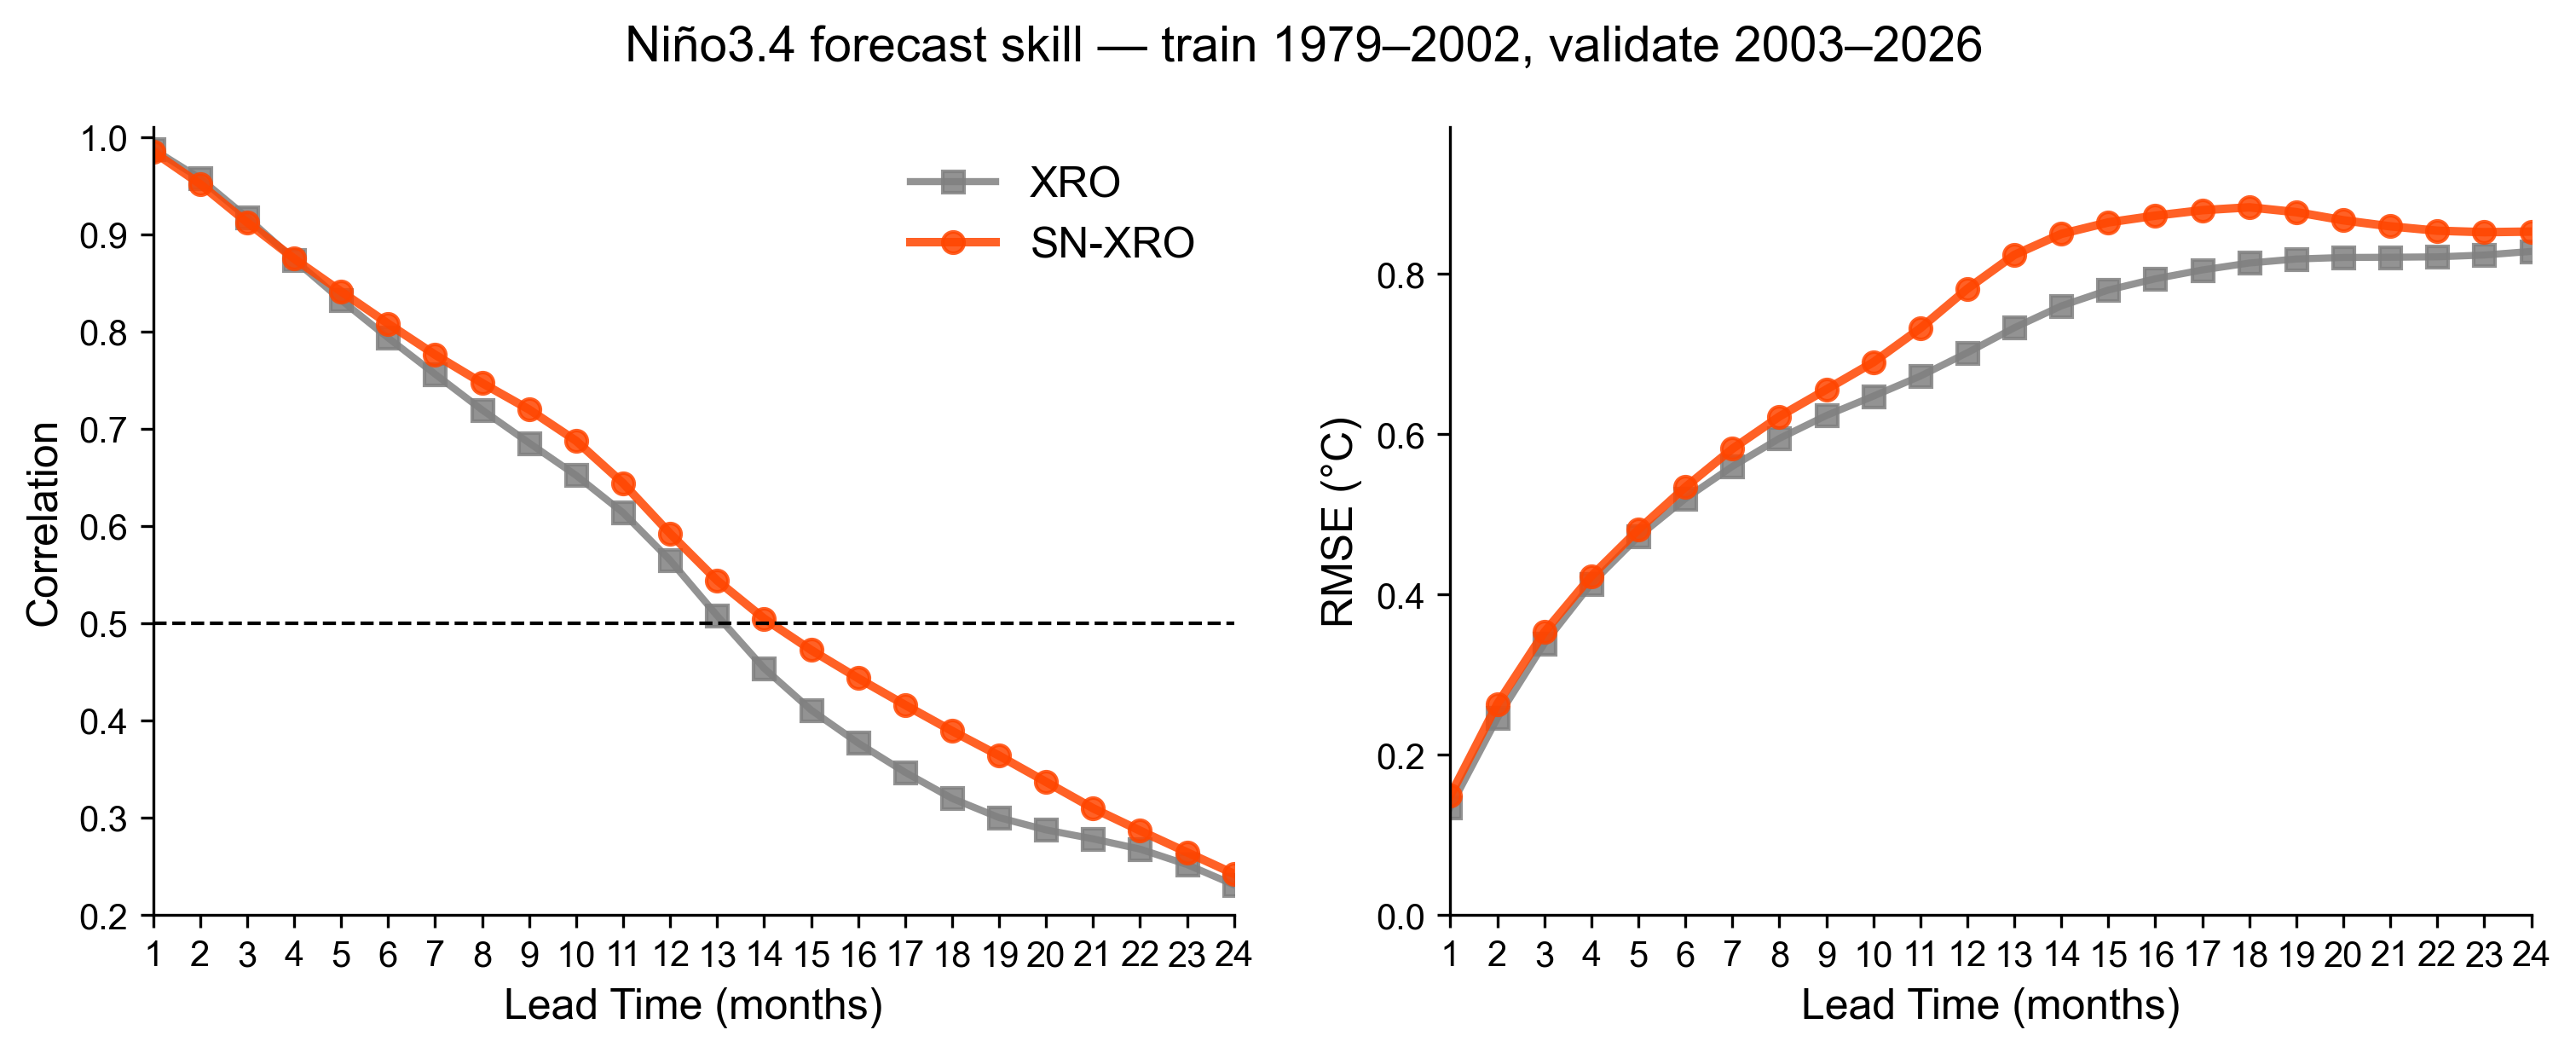
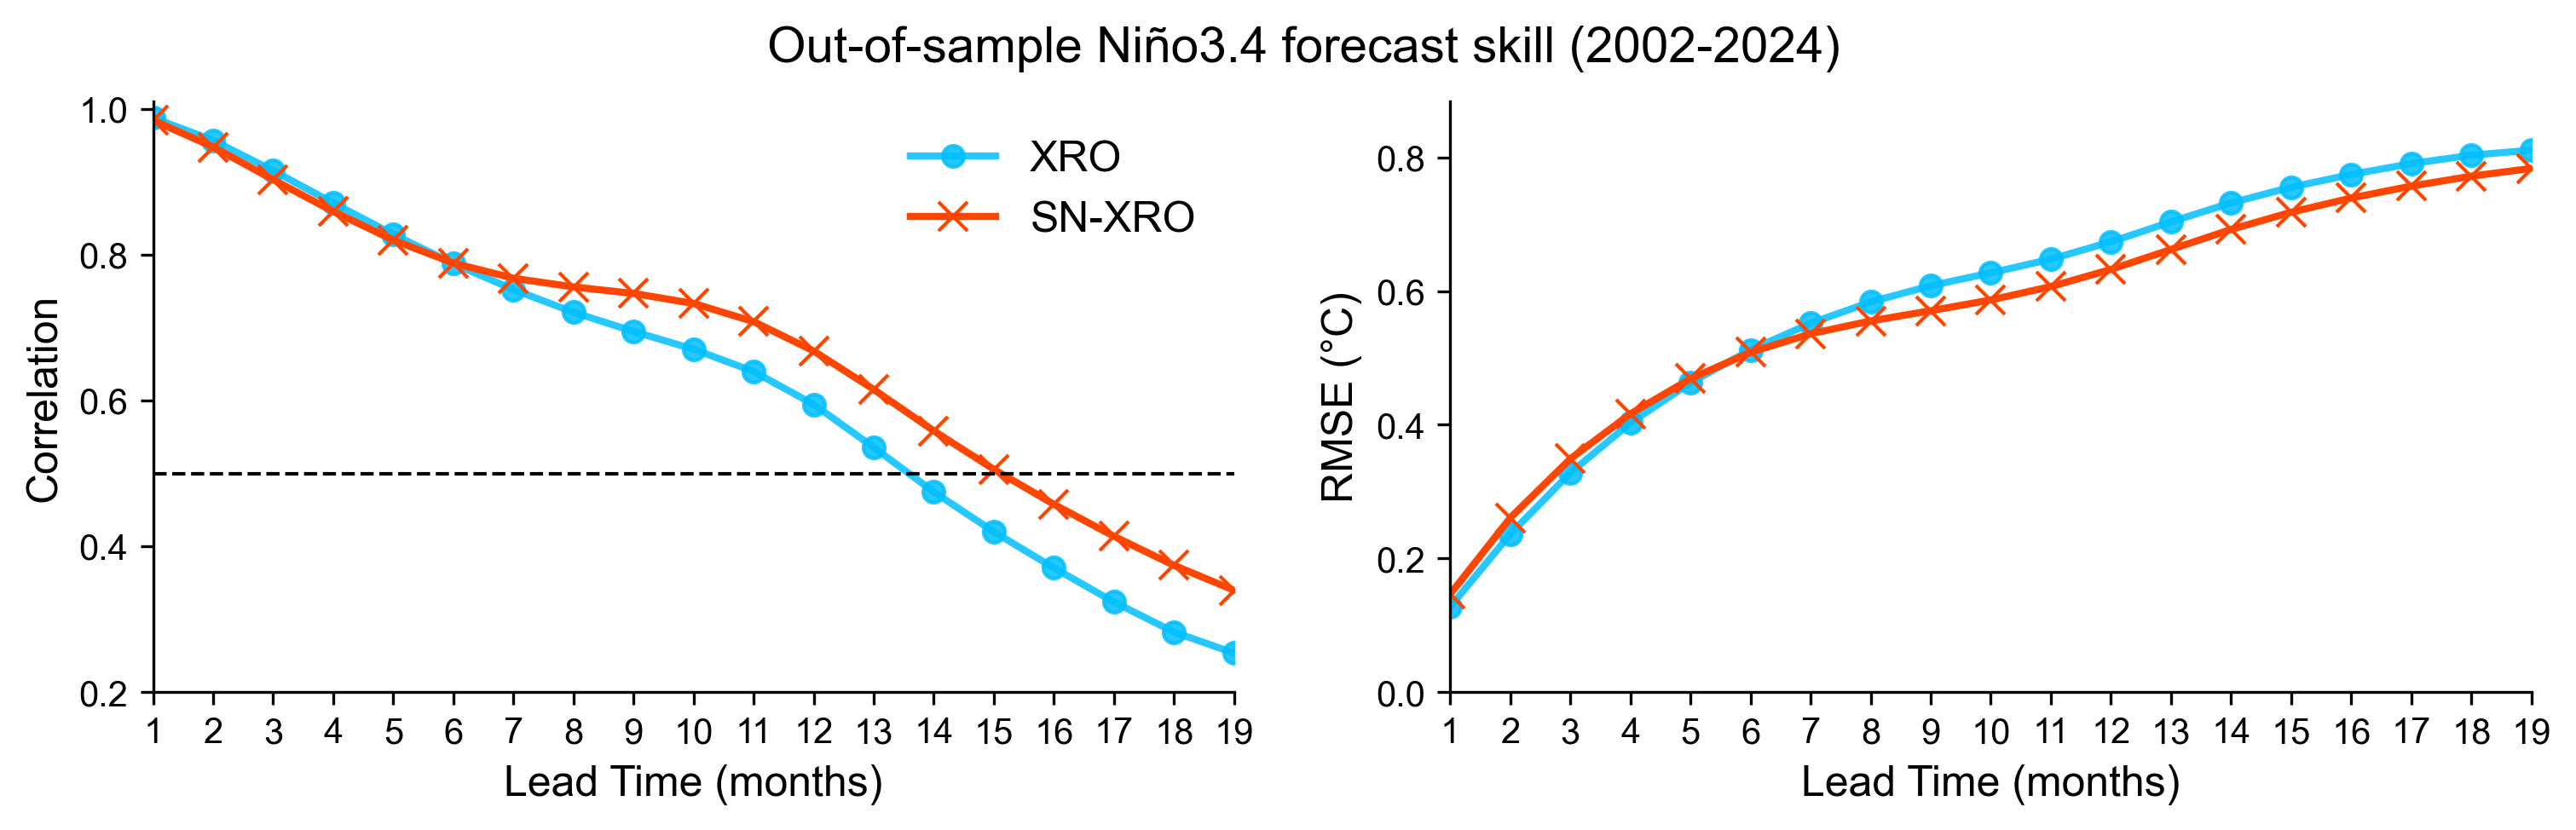
eval: align with xro_pysindy.ipynb; opaque errorbars; tilted peak label
- build_xro_model is now the standard nonlinear XRO baseline (model_std):
  physically prescribed quadratic/cubic-self terms on Nino34/WWV, matching
  the reference notebook (was a pure-linear model)
- evaluate.py: same data (XRO_indices_oras5.nc), split (train 1979-2001 =
  12x23 months, validate 2002-2024), leads 0-19, is_mv3=True, notebook styles;
  real-time forecast uses the latest dataset (oras5_indices_1958-2026-05.nc)
- plot_realtime_forecast: RMSE errorbars now opaque; extreme-value label arrow
  tilted horizontally so it no longer overlaps the (vertical) errorbar
- README: refine skill claim (SN-XRO leads from ~6 mo, +0.09 corr & lower RMSE
  at lead 19), correct XRO baseline description, update evaluation section

diff --git a/evaluate.py b/evaluate.py
@@ -1,17 +1,22 @@
 """
-evaluate.py —— SN-XRO 最小评估程序（训练 1979–2002，验证 2003–至今）。
+evaluate.py —— SN-XRO 最小评估程序，设置与参考笔记本 `xro_pysindy.ipynb` 一致。
+
+数据/划分（与笔记本相同）：
+  * 数据：data/XRO_indices_oras5.nc（1979-01 ~ 2024-12，10 个气候指数）。
+  * 训练：前 12×23 = 276 个月（1979-01 ~ 2001-12）。
+  * 验证：其余（2002-01 ~ 2024-12）。
 
 做三件事：
-  1. 在训练集上分别拟合 **SN-XRO**（季节调制 + Niño3.4/WWV 二次稀疏非线性）
-     与 **XRO**（纯季节调制线性基线）。
-  2. 在验证集上做滚动外推（滚动 1 个月 = lead 1，2 个月 = lead 2 …），逐 lead 计算目标
-     指数的 **相关系数** 与 **RMSE**，绘制两模型对比曲线 → figures/skill_comparison.png。
-  3. 用全量数据（1979–至今）重训 SN-XRO 做一次实时预报，并把验证集得到的逐 lead RMSE
-     以 **errorbar** 标注在预报曲线上 → figures/realtime_<target>_errorbar_<YYYYMM>.png。
+  1. 在训练集上拟合 **SN-XRO**（model_full：Niño3.4/WWV 全部二次项 + STLSQ 稀疏选择）
+     与 **XRO**（model_std：物理预设的少数二次/三次自身项）两个模型。
+  2. 在验证集上滚动外推（滚动 1 个月 = lead 1，依此类推），逐 lead 计算 Niño3.4 的
+     相关系数与 RMSE（3 个月滑动平均，is_mv3=True），绘制对比曲线 → figures/skill_comparison.png。
+  3. 用**最新数据集**（data/oras5_indices_1958-2026-05.nc）重训 SN-XRO 做实时预报，把验证集
+     逐 lead RMSE 以 **errorbar** 标注在预报曲线上 → figures/realtime_<target>_errorbar_<YYYYMM>.png。
 
 用法：
     python evaluate.py
-    python evaluate.py --target Nino34 --max-lead 24 --horizon 20
+    python evaluate.py --target Nino34 --max-lead 19
 """
 import argparse
 import numpy as np
@@ -25,7 +30,8 @@ from sindyro import (
 )
 from sindyro.core import batch_predict_rk4, evaluate_skill, plot_skill_comparison
 
-DATA = 'data/oras5_indices_1958-2026-05.nc'
+DATA = 'data/XRO_indices_oras5.nc'                       # 训练/验证：与笔记本一致的数据集
+FORECAST_DATA = 'data/oras5_indices_1958-2026-05.nc'     # 实时预报：最新数据集
 DISPLAY = {'Nino34': 'Niño3.4', 'WWV': 'WWV'}
 
 
@@ -35,86 +41,79 @@ def _fit(model, X, var_names):
 
 
 def _rolling_skill(model, X_val, lead_times, var_idx, start_month, is_mv3=True):
-    """
-    在验证集上滚动外推并逐 lead 评估技巧。
-
-    lead 与滚动月数一一对应（lead 1 = 向前 1 个月，依此类推）。is_mv3=True 时按 ENSO
-    业务惯例对各 lead 的预报/观测序列做 3 个月滑动平均后再算相关/RMSE。
-    """
+    """验证集滚动外推 + 逐 lead 技巧（lead k = 向前 k 个月；is_mv3 按 ENSO 惯例做 3 月滑动平均）。"""
     pred = batch_predict_rk4(model, X_val, lead_times, start_month=start_month)
-    # 复位批量季节标记，避免污染该模型后续的单步预报
-    model.feature_library._batch_start_months = None
+    model.feature_library._batch_start_months = None      # 复位，避免污染后续单步预报
     corr, rmse = evaluate_skill(X_val, pred, lead_times, var_idx=var_idx, is_mv3=is_mv3)
     return np.asarray(corr), np.asarray(rmse)
 
 
 def main():
-    p = argparse.ArgumentParser(description='SN-XRO vs XRO 技巧评估')
-    p.add_argument('--data', default=DATA, help='指数 NetCDF 路径')
+    p = argparse.ArgumentParser(description='SN-XRO vs XRO 技巧评估（设置同 xro_pysindy.ipynb）')
+    p.add_argument('--data', default=DATA, help='训练/验证用指数 NetCDF 路径')
+    p.add_argument('--forecast-data', default=FORECAST_DATA, help='实时预报用最新指数 NetCDF 路径')
     p.add_argument('--target', default='Nino34', help='评估的目标指数')
-    p.add_argument('--train-start', default='1979-01', help="训练起始月 'YYYY-MM'（建议 1 月）")
-    p.add_argument('--train-end', default='2002-12', help="训练结束月 'YYYY-MM'")
-    p.add_argument('--val-start', default='2003-01', help="验证起始月 'YYYY-MM'（建议 1 月）")
-    p.add_argument('--max-lead', type=int, default=24, help='评估的最大提前期（月）')
-    p.add_argument('--horizon', type=int, default=20, help='实时预报提前期（月）')
+    p.add_argument('--start', default='1979-01', help="数据起始月 'YYYY-MM'（建议 1 月）")
+    p.add_argument('--train-years', type=int, default=23, help='训练年数（n_train = 12×train_years）')
+    p.add_argument('--max-lead', type=int, default=19, help='评估的最大提前期（月）')
     p.add_argument('--raw-monthly', action='store_true',
                    help='关闭 3 个月滑动平均，按逐月原始序列评估技巧')
     args = p.parse_args()
     is_mv3 = not args.raw_monthly
-
     j_disp = DISPLAY.get(args.target, args.target)
-    lead_times = list(range(1, args.max_lead + 1))
+    lead_times = list(range(0, args.max_lead + 1))        # 与笔记本一致：含 lead 0
 
-    # ---- 1. 读取并切分 ----
-    X_tr, dates_tr, var_names = load_indices(args.data, start=args.train_start, end=args.train_end)
-    X_va, dates_va, _ = load_indices(args.data, var_names=var_names, start=args.val_start)
+    # ---- 1. 读取并按索引切分（与笔记本 n_train = 12×23 一致）----
+    X, dates, var_names = load_indices(args.data, start=args.start)
     j = var_names.index(args.target)
-    val_start_month = dates_va[0].month - 1     # 验证集首月的季节相位（0=1 月）
+    n_train = 12 * args.train_years
+    X_tr, X_va = X[:n_train], X[n_train:]
+    dates_tr, dates_va = dates[:n_train], dates[n_train:]
+    val_start_month = dates_va[0].month - 1               # 验证集首月的季节相位（0=1 月）
+    print(f"训练 {dates_tr[0]:%Y-%m}~{dates_tr[-1]:%Y-%m}（{len(X_tr)} 月） | "
+          f"验证 {dates_va[0]:%Y-%m}~{dates_va[-1]:%Y-%m}（{len(X_va)} 月）")
 
     # ---- 2. 训练两个模型 ----
-    print('\n=== 训练 SN-XRO（含稀疏二次非线性）===')
+    print('\n=== 训练 SN-XRO（全部二次项 + STLSQ 稀疏选择）===')
     snxro = _fit(build_snxro_model(var_names), X_tr, var_names)
-    print('\n=== 训练 XRO（纯线性基线）===')
+    print('\n=== 训练 XRO（物理预设非线性项基线）===')
     xro = _fit(build_xro_model(var_names), X_tr, var_names)
 
     # ---- 3. 验证集滚动技巧 ----
-    print('\n=== 验证集滚动外推（2003 → 至今）===')
+    print('\n=== 验证集滚动外推 ===')
     corr_sn, rmse_sn = _rolling_skill(snxro, X_va, lead_times, j, val_start_month, is_mv3)
     corr_xr, rmse_xr = _rolling_skill(xro, X_va, lead_times, j, val_start_month, is_mv3)
-
     results = {
         'XRO':    {'corr': corr_xr, 'rmse': rmse_xr},
         'SN-XRO': {'corr': corr_sn, 'rmse': rmse_sn},
     }
     for name, d in results.items():
-        print(f"  {name:7s} lead1: corr={d['corr'][0]:.3f} rmse={d['rmse'][0]:.3f}  |  "
+        print(f"  {name:7s} lead{lead_times[1]}: corr={d['corr'][1]:.3f} rmse={d['rmse'][1]:.3f}  |  "
               f"lead{args.max_lead}: corr={d['corr'][-1]:.3f} rmse={d['rmse'][-1]:.3f}")
 
-    # ---- 4. 技巧对比曲线 ----
+    # ---- 4. 技巧对比曲线（样式与笔记本一致）----
     styles = {
-        'XRO':    {'color': 'gray',      'marker': 's', 'linewidth': 2},
-        'SN-XRO': {'color': 'orangered', 'marker': 'o', 'linewidth': 2.4},
+        'XRO':    {'color': 'deepskyblue', 'marker': 'o', 'linewidth': 2,  'markersize': 6, 'alpha': 0.85},
+        'SN-XRO': {'color': 'orangered',   'marker': 'x', 'linewidth': 2.,  'markersize': 8, 'alpha': 1.0},
     }
     plot_skill_comparison(
-        lead_times, results, styles_dict=styles,
-        title=f'{j_disp} forecast skill — train 1979–{dates_tr[-1].year}, '
-              f'validate {dates_va[0].year}–{dates_va[-1].year}',
+        lead_times, results, styles_dict=styles, figsize=(12, 3),
+        title=f'Out-of-sample {j_disp} forecast skill '
+              f'({dates_va[0].year}-{dates_va[-1].year})',
         save_path='figures/skill_comparison.png',
     )
 
-    # ---- 5. 全量重训 + 实时预报 + RMSE errorbar ----
-    print('\n=== 全量数据（1979 → 至今）重训 SN-XRO 并实时预报 ===')
-    X_all, dates_all, _ = load_indices(args.data, var_names=var_names, start=args.train_start)
-    snxro_full = _fit(build_snxro_model(var_names), X_all, var_names)
-    fcst, fcst_dates = realtime_forecast(snxro_full, X_all, dates_all, horizon=args.horizon)
-
-    # lead 0 = 起报月初值（误差 0）；lead k = 验证集 SN-XRO 的逐 lead RMSE
-    err = np.concatenate([[0.0], rmse_sn[:args.horizon]])
-    out = f'figures/realtime_{args.target}_errorbar_{dates_all[-1]:%Y%m}.png'
+    # ---- 5. 用最新数据重训 SN-XRO + 实时预报 + RMSE errorbar ----
+    print('\n=== 用最新数据重训 SN-XRO 并实时预报 ===')
+    X_rt, dates_rt, _ = load_indices(args.forecast_data, var_names=var_names, start=args.start)
+    snxro_rt = _fit(build_snxro_model(var_names), X_rt, var_names)
+    fcst, fcst_dates = realtime_forecast(snxro_rt, X_rt, dates_rt, horizon=args.max_lead)
+    err = rmse_sn[:args.max_lead + 1]              # lead 0 = 起报月（RMSE≈0），lead k = 逐 lead RMSE
+    out = f'figures/realtime_{args.target}_errorbar_{dates_rt[-1]:%Y%m}.png'
     plot_realtime_forecast(
-        obs_dates=dates_all, obs_vals=X_all[:, j],
+        obs_dates=dates_rt, obs_vals=X_rt[:, j],
         forecast_times=fcst_dates, forecast_vals=fcst[:, j],
-        forecast_err=err, start=dates_all[-1], target=j_disp, model_name='SN-XRO',
+        forecast_err=err, start=dates_rt[-1], target=j_disp, model_name='SN-XRO',
         save_path=out,
     )
 

diff --git a/sindyro/forecast.py b/sindyro/forecast.py
@@ -103,10 +103,21 @@ def build_snxro_model(var_names, ac_order=2,
     return model
 
 
-def build_xro_model(var_names, ac_order=2, alpha_linear=0.0):
+# XRO 原型在 Niño3.4 / WWV 方程中规定的非线性项（与参考笔记本 model_std 的 mask 一致）。
+XRO_MASK_STD = {
+    'Nino34': ['Nino34*Nino34', 'Nino34*WWV', 'Nino34^3'],
+    'WWV':    ['WWV*WWV', 'Nino34*Nino34', 'WWV^3'],
+}
+
+
+def build_xro_model(var_names, ac_order=2,
+                    threshold=0.01, alpha_linear=0.0, alpha_nonlinear=10.0):
     """
-    构建线性 XRO（Extended Recharge Oscillator）基线模型 —— 仅含季节调制线性块，
-    不引入任何非线性项，作为 SN-XRO 的对照基线。
+    构建标准 XRO（Extended nonlinear Recharge Oscillator）基线模型，作为 SN-XRO 的对照。
+
+    与 SN-XRO 不同，XRO 的非线性项是**物理预设**的：仅 Niño3.4、WWV 方程引入
+    XRO 原型规定的少数二次 / 三次自身项（见 ``XRO_MASK_STD``），其余方程纯线性。
+    设置与参考笔记本 `xro_pysindy.ipynb` 的 `model_std` 完全一致。
 
     Returns
     -------
@@ -117,19 +128,19 @@ def build_xro_model(var_names, ac_order=2, alpha_linear=0.0):
 
     feature_library = SeasonalNonlinearLibrary(
         ac_order=ac_order,
-        include_quadratic=False,   # 纯线性
-        include_cubic_self=False,
+        include_quadratic=True,
+        include_cubic_self=True,
         include_cubic_couple=False,
         nth_only=False,
-        mask_nt=None,
+        mask_nt=XRO_MASK_STD,      # 物理预设的 XRO 非线性项
         var_names=var_names,
     )
     optimizer = HybridOptimizer(
         n_vars=n_vars,
         n_seasonal_terms=n_seasonal_terms,
-        threshold=0.0,
+        threshold=threshold,
         alpha_linear=alpha_linear,
-        alpha_nonlinear=0.0,
+        alpha_nonlinear=alpha_nonlinear,
     )
     model = ps.SINDy(
         feature_library=feature_library,
@@ -231,14 +242,16 @@ def _annotate_extreme(ax, times, values, mask, pick, color, prefer='above'):
             text_y = min(value + gap, ylim_high - margin)
             va = 'bottom'
 
-    ha = 'center'
-    if idx == 0:
-        ha = 'left'
-    elif idx == len(times) - 1:
-        ha = 'right'
+    # 横向偏移文字，使箭头略微倾斜，避开标注点处（垂直的）误差棒
+    span = times[-1] - times[0]
+    x_off = span * 0.045
+    if idx > len(times) * 0.75:        # 靠近右端则朝左偏
+        text_x, ha = times[idx] - x_off, 'right'
+    else:                              # 否则朝右偏
+        text_x, ha = times[idx] + x_off, 'left'
 
     ax.annotate(
-        f'{value:.2f}', xy=(times[idx], value), xytext=(times[idx], text_y),
+        f'{value:.2f}', xy=(times[idx], value), xytext=(text_x, text_y),
         textcoords='data', ha=ha, va=va, fontsize=13, color=color,
         arrowprops=dict(arrowstyle='->', color=color, linewidth=0.7, shrinkA=2, shrinkB=2))
 
@@ -307,8 +320,8 @@ def plot_realtime_forecast(obs_dates, obs_vals, forecast_times, forecast_vals,
     if forecast_err is not None:
         forecast_err = np.abs(np.asarray(forecast_err, dtype=float))
         ax.errorbar(forecast_times, forecast_vals, yerr=forecast_err,
-                    fmt='none', ecolor='#0072B2', elinewidth=1.1,
-                    capsize=2.8, capthick=1.0, alpha=0.5, zorder=2.5,
+                    fmt='none', ecolor='#0072B2', elinewidth=1.2,
+                    capsize=2.8, capthick=1.1, zorder=2.5,
                     label='±RMSE (validation)')
 
     ax.axhline(0, color='#111827', linewidth=0.7, linestyle=':')